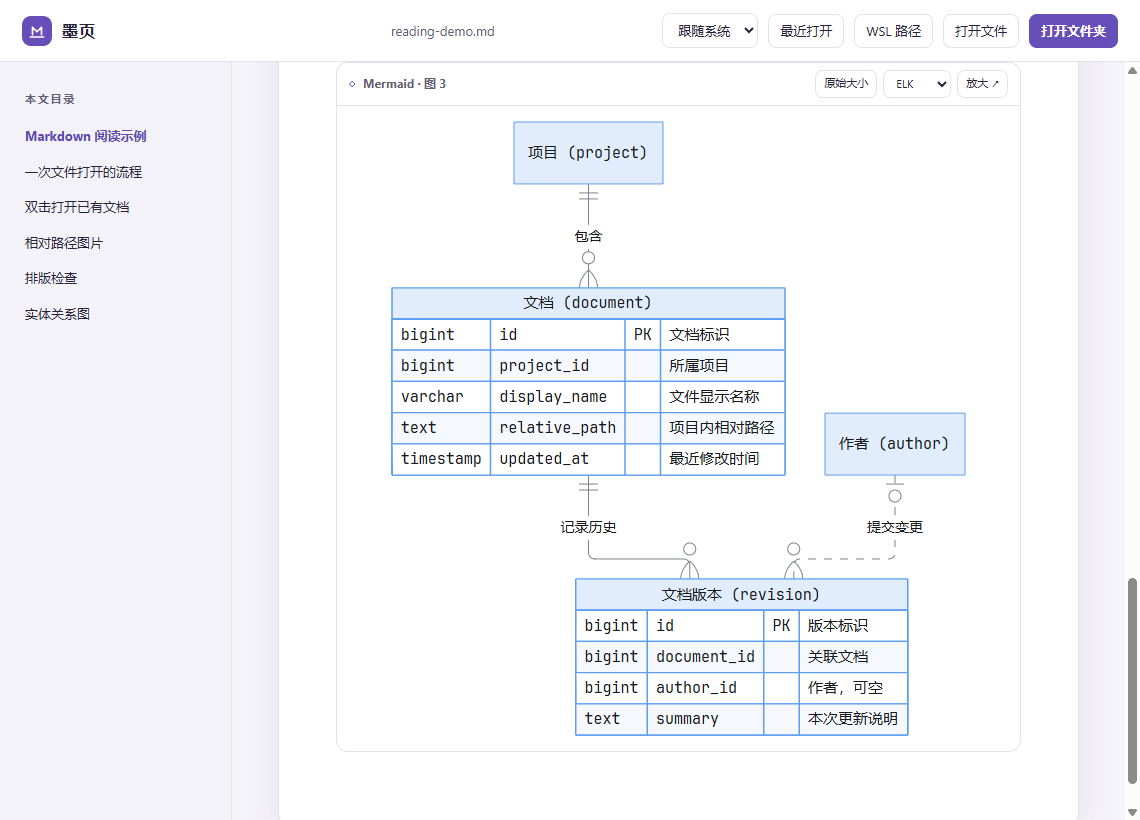
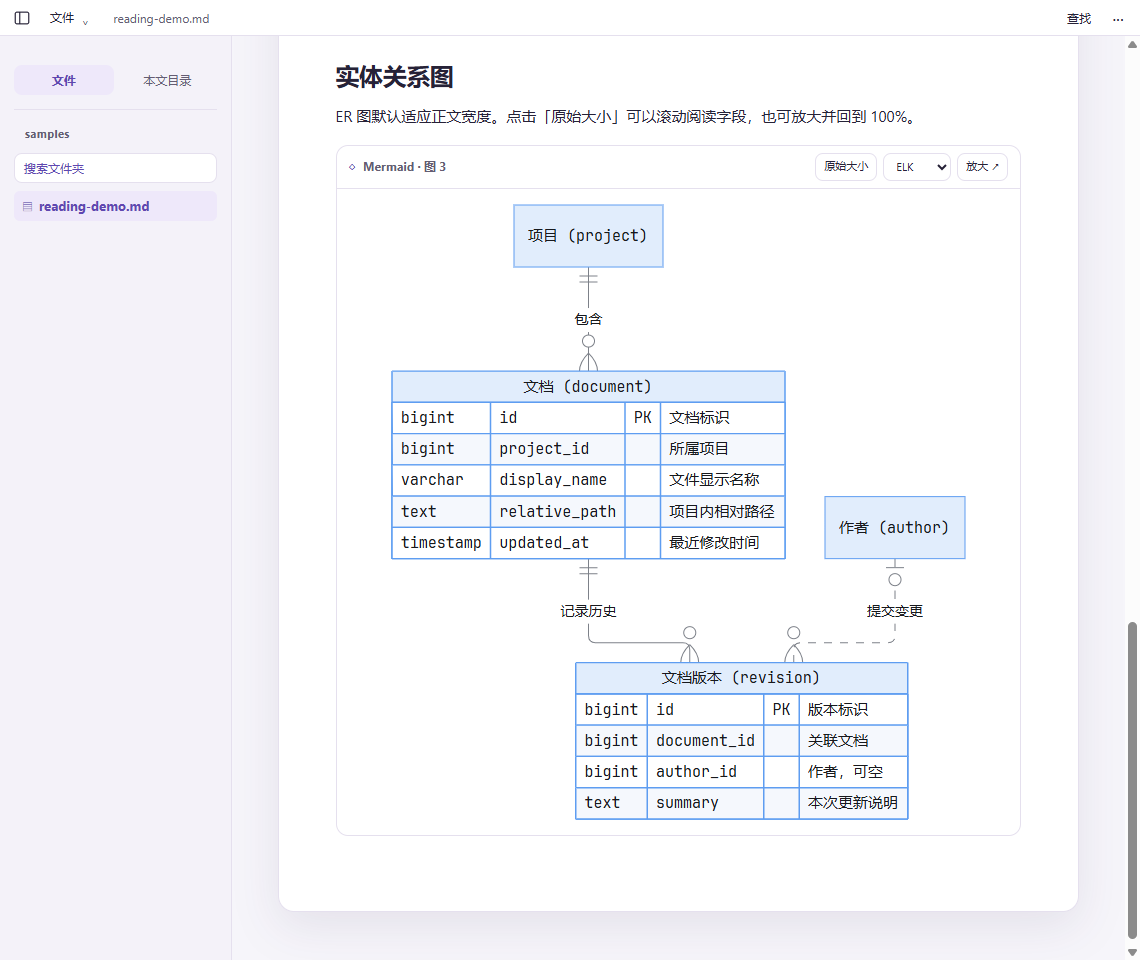
Replace the large toolbar with compact document navigation

diff --git a/src/main.js b/src/main.js
@@ -1,10 +1,11 @@
 import './style.css';
 import sampleText from '../samples/reading-demo.md?raw';
 import sampleImage from '../samples/reader-mark.svg?url';
-import { connectDesktop, desktop, launchExternal, openPath, openRelated, openTreeDocument, pickDocument, pickFolder, readImage } from './desktop.js';
+import { connectDesktop, desktop, launchExternal, openPath, openRelated, openTreeDocument, pickDocument, pickFolder, readImage, setWindowTitle } from './desktop.js';
 import { FileTree } from './file-tree.js';
 import { mountWslPicker } from './wsl-picker.js';
 import { diagramType, renderDiagram, svgUrl } from './diagrams.js';
+import { mountAppMenus } from './app-menus.js';
 import { RecentPaths } from './recents.js';
 import { localReference, renderMarkdown } from './markdown.js';
 import { closeDiagram, showDiagram } from './zoom.js';
@@ -29,6 +30,7 @@ let current = null;
 let panels = [];
 let folder = null;
 let sidebarMode = 'files';
+let sidebarCollapsed = false;
 let outlineCount = 0;
 const recents = new RecentPaths();
 const fileTree = new FileTree($('#file-tree'), (path, folderId) => {
@@ -38,6 +40,11 @@ const fileTree = new FileTree($('#file-tree'), (path, folderId) => {
 function report(message = '') {
   notice.textContent = message;
   notice.hidden = !message;
+}
+
+function updateTitle(title) {
+  document.title = title;
+  if (desktop) setWindowTitle(title).catch((error) => report(errorText(error)));
 }
 
 function themeValue() {
@@ -174,7 +181,14 @@ function mountDiagram(figure, source, index, version) {
 function updateSidebar() {
   const inFolder = Boolean(folder);
   const showFiles = inFolder && sidebarMode === 'files';
-  $('#sidebar').hidden = !inFolder && !outlineCount;
+  const available = inFolder || outlineCount > 0;
+  const visible = available && !sidebarCollapsed;
+  $('#sidebar').hidden = !visible;
+  const toggle = $('#toggle-sidebar');
+  toggle.disabled = !available;
+  toggle.setAttribute('aria-expanded', String(visible));
+  toggle.setAttribute('aria-label', visible ? '收起侧栏' : '展开侧栏');
+  toggle.title = (visible ? '收起侧栏' : '展开侧栏') + ' (Ctrl+B)';
   $('#sidebar-tabs').hidden = !inFolder;
   $('#tree-pane').hidden = !showFiles;
   $('#outline-pane').hidden = showFiles;
@@ -196,14 +210,15 @@ function showFolder(next) {
   $('#outline').replaceChildren();
   outlineCount = 0;
   folder = next;
+  sidebarCollapsed = false;
   sidebarMode = 'files';
   fileTree.setFolder(next);
   recents.add({ kind: 'folder', path: next.id, name: next.name });
   $('#folder-name').textContent = next.name;
   $('#folder-name').title = next.path;
-  $('#file-name').textContent = next.name;
-  $('#file-name').title = next.path;
-  document.title = next.name + ' · 墨页';
+  $('#file-name').textContent = '选择文档';
+  $('#file-name').removeAttribute('title');
+  updateTitle(next.name + ' · 墨页');
   $('#empty').hidden = false;
   $('#empty-title').textContent = '从左侧选择文档';
   $('#empty-description').textContent = '展开文件夹，点击 Markdown 文件即可阅读。';
@@ -234,9 +249,9 @@ function showDocument(doc, anchor) {
   article.replaceChildren(template.content);
   article.hidden = false;
   $('#empty').hidden = true;
-  $('#file-name').textContent = doc.name;
-  $('#file-name').title = doc.name;
-  document.title = `${doc.name} · 墨页`;
+  $('#file-name').textContent = doc.workspacePath || doc.name;
+  $('#file-name').title = doc.documentId || doc.name;
+  updateTitle(`${doc.name} · 墨页`);
   report('');
 
   const outline = $('#outline');
@@ -349,6 +364,7 @@ const showWorkspaceSearch = mountWorkspaceSearch($('#search-dialog'), () => fold
   if (scope !== folder) return false;
   if (!await load(() => openTreeDocument(match.path, scope.id), null, onError)) return false;
   sidebarMode = 'files';
+  sidebarCollapsed = false;
   updateSidebar();
   fileTree.reveal(match.path);
   if (match.line) readerFind.show(query, match.line);
@@ -374,6 +390,8 @@ article.addEventListener('click', (event) => {
 });
 
 $('#open-file').onclick = chooseFile;
+mountAppMenus(document.querySelector('.topbar'));
+$('#toggle-sidebar').onclick = () => { sidebarCollapsed = !sidebarCollapsed; updateSidebar(); };
 $('#empty-open').onclick = chooseFile;
 $('#open-folder').onclick = $('#empty-folder').onclick = () => load(pickFolder);
 $('#open-wsl').onclick = showWslDialog;
@@ -384,12 +402,16 @@ $('#show-outline').onclick = () => { sidebarMode = 'outline'; updateSidebar(); }
 $('#open-sample').onclick = () => load(() => ({ name: '阅读示例.md', text: sampleText, sample: true }));
 fileInput.onchange = () => { openBrowserFile(fileInput.files[0]); fileInput.value = ''; };
 document.addEventListener('keydown', (event) => {
+  if (event.defaultPrevented) return;
   const modifier = event.ctrlKey || event.metaKey;
   const key = event.key.toLowerCase();
   const modal = document.querySelector('dialog[open]');
   if (modifier && key === 'o') {
     event.preventDefault();
     chooseFile();
+  } else if (!modal && modifier && key === 'b' && !$('#toggle-sidebar').disabled) {
+    event.preventDefault();
+    $('#toggle-sidebar').click();
   } else if (!modal && modifier && key === 'f' && !event.shiftKey && current) {
     event.preventDefault();
     readerFind.show();

diff --git a/src/style.css b/src/style.css
@@ -51,16 +51,31 @@ button.primary:hover { filter: brightness(.94); background: var(--accent-fill); 
 kbd { font: 10px var(--mono); border: 1px solid currentColor; padding: 2px 3px; border-radius: 4px; opacity: .72; margin-left: 5px; }
 .sr-only { clip-path: inset(50%); width: 1px; height: 1px; overflow: hidden; position: absolute; white-space: nowrap; }
 .topbar {
-  height: 62px; min-height: 62px; padding: 0 22px; display: grid;
-  grid-template-columns: minmax(95px, 1fr) minmax(90px, 2fr) minmax(max-content, 1fr);
-  gap: 18px; align-items: center; background: var(--paper); border-bottom: 1px solid var(--line);
+  height: 36px; flex: 0 0 36px; padding: 0 8px; display: flex; gap: 6px;
+  align-items: center; background: var(--paper); border-bottom: 1px solid var(--line); font-size: 12px;
 }
-.brand, .toolbar { display: flex; align-items: center; gap: 10px; }
-.brand { font-weight: 750; letter-spacing: .06em; }
-.brand-mark { display: grid; place-items: center; width: 30px; height: 30px; background: var(--accent-fill); border-radius: 9px; color: var(--on-accent); }
-.brand-mark svg { width: 18px; fill: none; stroke: currentColor; stroke-width: 2.2; stroke-linejoin: round; stroke-linecap: round; }
-.current-file { text-align: center; color: var(--muted); overflow: hidden; text-overflow: ellipsis; white-space: nowrap; font-size: 13px; }
-.toolbar { justify-content: flex-end; white-space: nowrap; font-size: 13px; }
+.topbar button, .topbar summary { border: 0; border-radius: 5px; padding: 4px 8px; min-height: 26px; background: transparent; }
+.topbar :is(button, summary):hover, .app-menu[open] > summary { background: var(--tint); }
+.topbar .icon-button { width: 28px; padding: 4px; display: grid; place-items: center; }
+.icon-button svg { width: 18px; height: 18px; fill: none; stroke: currentColor; stroke-width: 1.3; }
+.current-file { flex: 1; min-width: 0; margin-left: 10px; color: var(--muted); overflow: hidden; text-overflow: ellipsis; white-space: nowrap; }
+.document-actions { display: flex; align-items: center; gap: 5px; }
+.app-menu { position: relative; flex-shrink: 0; }
+.app-menu summary { cursor: pointer; list-style: none; user-select: none; }
+.app-menu summary::-webkit-details-marker { display: none; }
+.app-menu summary span { margin-left: 5px; color: var(--muted); }
+.menu-panel {
+  position: absolute; z-index: 10; top: calc(100% + 4px); left: 0; width: 228px;
+  padding: 5px; border: 1px solid var(--line); border-radius: 8px;
+  background: var(--paper); box-shadow: var(--shadow);
+}
+.topbar .menu-panel button { width: 100%; padding: 7px 9px; display: flex; justify-content: space-between; align-items: center; text-align: left; }
+.menu-panel hr { border: 0; border-top: 1px solid var(--line); margin: 4px; }
+.menu-panel kbd { color: var(--muted); border: 0; padding: 0; }
+#view-menu .menu-panel { right: 0; left: auto; width: 180px; padding: 11px; }
+#view-menu summary { font-size: 18px; line-height: 1; }
+#view-menu label { display: block; margin-bottom: 7px; color: var(--muted); }
+#view-menu select { width: 100%; font-size: 12px; min-height: 30px; }
 .workspace { min-height: 0; flex: 1; display: flex; }
 .sidebar { flex: 0 0 215px; background: var(--chrome); border-right: 1px solid var(--line); overflow: auto; padding: 29px 14px; }
 .sidebar-label { color: var(--muted); font-weight: 700; font-size: 11px; letter-spacing: .16em; padding: 0 11px 12px; }
@@ -208,8 +223,6 @@ kbd { font: 10px var(--mono); border: 1px solid currentColor; padding: 2px 3px; 
 .dialog-actions { display: flex; justify-content: flex-end; gap: 8px; }
 @media (max-width: 770px) {
   .sidebar { flex-basis: 174px; }
-  .toolbar { gap: 5px; }
-  .toolbar button, .toolbar select { padding-inline: 6px; }
 }
 
 .er-diagram .figure-content { padding: 8px; }
@@ -230,11 +243,6 @@ kbd { font: 10px var(--mono); border: 1px solid currentColor; padding: 2px 3px; 
 .recent-row > :is(strong, span) { display: block; overflow: hidden; text-overflow: ellipsis; white-space: nowrap; }
 .recent-row span { font-size: 12px; color: var(--muted); margin-top: 2px; }
 #recents-error { color: var(--error); font-size: 13px; overflow-wrap: anywhere; }
-@media (max-width: 700px) {
-  .topbar { grid-template-columns: auto minmax(0, 1fr) auto; }
-  .brand > span:last-child { display: none; }
-}
-
 #open-folder-search {
   width: 100%; min-height: 30px; margin-bottom: 8px; padding: 5px 9px;
   text-align: left; font-size: 12px; color: var(--accent);

diff --git a/index.html b/index.html
@@ -8,17 +8,31 @@
 </head>
 <body>
   <header class="topbar">
-    <div class="brand"><span class="brand-mark" aria-hidden="true"><svg viewBox="0 0 24 24"><path d="M6 17V7l6 6 6-6v10M3 20h18"/></svg></span><span>墨页</span></div>
-    <div class="current-file" id="file-name">Markdown 阅读器</div>
-    <div class="toolbar">
-      <label class="theme-control"><span class="sr-only">外观</span><select id="theme"><option value="system">跟随系统</option><option value="light">浅色</option><option value="dark">深色</option></select></label>
+    <button id="toggle-sidebar" class="icon-button" aria-label="收起侧栏" aria-controls="sidebar" aria-expanded="false" title="收起侧栏 (Ctrl+B)" disabled>
+      <svg viewBox="0 0 20 20" aria-hidden="true"><rect x="2.5" y="3.5" width="15" height="13" rx="2"/><path d="M7.5 3.5v13"/></svg>
+    </button>
+    <details class="app-menu" id="file-menu">
+      <summary>文件 <span aria-hidden="true">⌄</span></summary>
+      <div class="menu-panel" role="group" aria-label="文件操作">
+        <button id="open-file">打开文件… <kbd>Ctrl+O</kbd></button>
+        <button id="open-folder" hidden>打开文件夹…</button>
+        <button id="open-wsl" hidden>打开 WSL 路径…</button>
+        <hr>
+        <button id="open-recents" hidden>最近打开…</button>
+      </div>
+    </details>
+    <div class="current-file" id="file-name">未打开文档</div>
+    <div class="document-actions">
       <button id="find-document" title="在当前文档中查找 (Ctrl+F)" hidden>查找</button>
-      <button id="open-recents" hidden>最近打开</button>
-      <button id="open-wsl" hidden>WSL 路径</button>
-      <button id="open-file">打开文件</button>
-      <button id="open-folder" class="primary" hidden>打开文件夹</button>
-      <input id="file-input" type="file" accept=".md,.markdown,.mdown" hidden>
+      <details class="app-menu" id="view-menu">
+        <summary class="icon-button" aria-label="更多" title="更多">···</summary>
+        <div class="menu-panel" role="group" aria-label="外观">
+          <label for="theme">外观</label>
+          <select id="theme"><option value="system">跟随系统</option><option value="light">浅色</option><option value="dark">深色</option></select>
+        </div>
+      </details>
     </div>
+    <input id="file-input" type="file" accept=".md,.markdown,.mdown" hidden>
   </header>
   <div class="workspace">
     <aside class="sidebar" id="sidebar" aria-label="文件与目录" hidden>

diff --git a/src/app-menus.js b/src/app-menus.js
@@ -1,0 +1,40 @@
+/** Keeps compact menus mutually exclusive and returns keyboard focus when dismissed. */
+export function mountAppMenus(header) {
+  const menus = [...header.querySelectorAll('details.app-menu')];
+  const close = (menu, restoreFocus = false) => {
+    menu.open = false;
+    if (restoreFocus) menu.querySelector('summary').focus();
+  };
+  for (const menu of menus) {
+    menu.querySelector('summary').addEventListener('click', () => {
+      for (const other of menus) if (other !== menu) close(other);
+    });
+    // Dialog return focus must not point at an action hidden inside the closed menu.
+    menu.addEventListener('click', (event) => {
+      if (!event.target.closest('button')) return;
+      close(menu, true);
+      queueMicrotask(() => {
+        document.querySelector('dialog[open]')?.addEventListener('close', () => {
+          menu.querySelector('summary').focus();
+        }, { once: true });
+      });
+    }, { capture: true });
+  }
+  document.addEventListener('click', (event) => {
+    for (const menu of menus) if (menu.open && !menu.contains(event.target)) close(menu);
+  });
+  document.addEventListener('keydown', (event) => {
+    if (event.key === 'Tab') {
+      requestAnimationFrame(() => {
+        for (const menu of menus) if (menu.open && !menu.contains(document.activeElement)) close(menu);
+      });
+      return;
+    }
+    if (event.key !== 'Escape') return;
+    const menu = menus.find((item) => item.open);
+    if (menu) {
+      event.preventDefault();
+      close(menu, true);
+    }
+  });
+}

diff --git a/src/desktop.js b/src/desktop.js
@@ -1,11 +1,16 @@
 import { invoke, isTauri } from '@tauri-apps/api/core';
 import { listen } from '@tauri-apps/api/event';
 import { getCurrentWebview } from '@tauri-apps/api/webview';
+import { getCurrentWindow } from '@tauri-apps/api/window';
 import { open } from '@tauri-apps/plugin-dialog';
 import { openUrl } from '@tauri-apps/plugin-opener';
 
 export const desktop = isTauri();
 const markdownExtensions = ['md', 'markdown', 'mdown'];
+
+export function setWindowTitle(title) {
+  return getCurrentWindow().setTitle(title);
+}
 
 export async function pickDocument() {
   const path = await open({

diff --git a/docs/topbar-research.md b/docs/topbar-research.md
@@ -1,0 +1,28 @@
+# 墨页顶部界面调研
+
+调研日期：2026-11-10。依据官方文档与官方界面说明；没有据截图推断工具栏像素尺寸，也没有实装对比所有平台。
+
+## 结论
+
+墨页面向主要阅读 Markdown 的用户。当前系统标题栏下又常驻一整行品牌、文件夹名、主题和多个打开入口，重复信息多，阅读状态下使用频率低。建议取消这条独立品牌工具条，把常驻空间交给当前文档位置、文件导航和搜索。此处是针对墨页的设计判断，不是各工具统一遵循的强制规范。
+
+## 主流工具的做法
+
+| 工具 | 官方资料可确认的做法 | 对墨页的参考价值 |
+| --- | --- | --- |
+| Typora | 打开文件/文件夹通过 File → Open；文件侧栏底部菜单可切换文件夹，Recent Locations 管理最近位置；Quick Open 用于文件定位。侧栏可切文件树、列表和目录。侧栏开关在 macOS 标题栏、Windows/Linux 状态栏，位置存在平台差异。[Quick Start](https://support.typora.io/Quick-Start/)、[File Management](https://support.typora.io/File-Management/) | 打开、切换文件夹等入口可以进入文件菜单或侧栏菜单；没有必要将每个入口常驻为大按钮。 |
+| Obsidian | 桌面以可收起的侧栏、文档标签页、左侧竖向 Ribbon 和文档右上更多菜单组织功能。Quick switcher 可搜索文档，空查询显示最近文档。主题和系统/明暗外观位于 Settings → Appearance；设置可由侧栏或命令面板进入。[Workspace](https://obsidian.md/help/workspace)、[Quick switcher](https://obsidian.md/help/Plugins/Quick+switcher)、[Settings](https://obsidian.md/help/settings) | 常驻入口分为全局操作和当前文档操作，低频设置进入菜单。不能简单概括为“Obsidian 没有工具栏”；它有 Ribbon 和可配置标题栏。 |
+| VS Code | 文件树在 Explorer；文档以编辑区标题上的标签页表示；Ctrl+P 定位文件、Ctrl+Shift+P 进入命令。主题从 Preferences/命令选择器进入。Windows/Linux 菜单栏可折叠或隐藏。[User Interface](https://code.visualstudio.com/docs/editing/getting-started/userinterface)、[Themes](https://code.visualstudio.com/docs/configure/themes) | 把文件和正文操作分别放在对应区域，避免将入口平铺。其 Command Center 是在自定义标题栏里整合搜索的设计，不能据此认为墨页需要再加一条搜索栏；官方历史说明见 [1.82](https://code.visualstudio.com/updates/v1_82#_command-center-now-on-by-default)。 |
+| Zed | Project Panel 放文件树；Ctrl+P 按文件名/路径查找，Ctrl+Shift+P 进入命令；File → Open 和 File → Open Recent 管理项目。主题由 Theme Selector 和设置管理；标题栏可按设置显示项目、分支、用户菜单等元素。[Finding & Navigating](https://zed.dev/docs/finding-navigating)、[Windows & Projects](https://zed.dev/docs/windows-and-projects)、[Appearance](https://zed.dev/docs/appearance)、[Title Bar settings](https://zed.dev/docs/reference/all-settings#title-bar) | 顶部保留有用的上下文或集中入口，设置与打开操作不必平铺。Zed 功能和项目模型比只读阅读器复杂，不建议照搬整套布局。 |
+
+Typora 的菜单主题入口也由官方 [About Themes](https://support.typora.io/About-Themes/) 明确说明。以上文档列出的是可靠的操作入口，不能凭文档未列出某按钮，就断言所有版本和平台都不存在该按钮。
+
+## 墨页建议
+
+1. 删除第二层整条品牌工具条，应用名保留在窗口标题；当前文件夹名保留在文件树顶部，避免三处重复。
+2. 全局保留一个可见的“文件”菜单：打开文件、打开文件夹、WSL 路径、最近打开。主题收进“外观”子菜单，仍默认跟随系统。鼠标用户能找到入口，快捷键作为补充。
+3. 阅读区顶部如需常驻一行，只显示当前文档的短路径/文件名，以及收起侧栏、查找和更多操作。没有打开文档时不制造空标题行；未打开文件夹的首页继续放明确的打开入口。
+4. 文件树标题旁放搜索或切换文件夹入口；当前正文使用 Ctrl+F，文件定位使用 Ctrl+P，全文搜索使用 Ctrl+Shift+F。不要为了模仿编辑器新增多标签、Git 或 AI 工具栏。
+5. Windows 可分两步实现：先移除重复工具条并整理菜单；若以后要把菜单与窗口按钮合成一层，再单独验收窗口拖动、最大化、双击、系统菜单、缩放和键盘操作。仅删除当前品牌栏并不必然要求重写原生窗口标题栏。
+
+推荐的阅读状态：`[侧栏开关] 文件菜单 | 当前文档短路径 | [查找] [更多]`。这是功能分区草案，不是已实现效果，也不规定最终控件尺寸。

diff --git a/README.md b/README.md
@@ -1,6 +1,6 @@
 # 墨页 Moye · Windows Markdown Reader
 
-Windows 本地 Markdown 阅读器。打开或拖入 Markdown 文件或文件夹，阅读带目录、表格、相对图片和 Mermaid 图的文档。点击内嵌图可在独立画布中缩放、拖动和适应窗口。可按图切换 Dagre/ELK。ER 图默认适应正文宽度，可切到原始大小或放大查看。主题和最近打开的文件/文件夹路径仅保存在本机，文档始终以只读方式打开。
+Windows 本地 Markdown 阅读器。打开或拖入 Markdown 文件或文件夹，阅读带目录、表格、相对图片和 Mermaid 图的文档。图表默认采用蓝色节点和细灰连线，流程图与 ER 图默认使用 ELK；可切到原始大小，或在大图中缩放、拖动和适应窗口。主题和最近打开的文件/文件夹路径仅保存在本机，文档始终以只读方式打开。
 
 **[下载 Windows x64 版](https://github.com/eval1007/moye-markdown/releases/latest)** · [反馈问题或建议](https://github.com/eval1007/moye-markdown/issues)
 
@@ -13,7 +13,8 @@ Moye is a local Markdown reader for Windows with WSL folder browsing, Mermaid an
 - Windows 10/11 x64，使用 WebView2 Runtime。
 - 安装时可选择「只为我自己安装」（默认目录 `%LOCALAPPDATA%\Programs\Moye`）或「为本机所有用户安装」（默认目录 `%ProgramFiles%\Moye`，需要管理员权限）。两种模式都能修改目录。升级时默认沿用已安装的范围和目录；想切换范围，建议先卸载旧版并保留应用数据。
 - 安装后可在文件管理器用「打开方式 → Moye」打开 Markdown。系统默认关联由用户选择。
-- 窗口内可用「打开文件」、Ctrl+O 或拖放。支持 UTF-8 的 `.md`、`.markdown`、`.mdown`。
+- 左上角「文件」菜单提供打开文件、打开文件夹、WSL 路径和最近打开；也可用 Ctrl+O 或拖放。支持 UTF-8 的 `.md`、`.markdown`、`.mdown`。右上角「更多」菜单设置外观。
+- 顶部显示当前文档的相对路径，完整路径可悬停查看。点击侧栏图标或按 Ctrl+B 可以收起 / 展开文件树和目录。
 - 「打开文件夹」显示左侧文件树，点击 Markdown 文件后在右侧阅读。点「WSL 路径」可选择发行版并输入 Linux 绝对路径，也可粘贴 WSL 的 Windows 网络路径。输入时列出匹配的文件夹和 Markdown 文件；可点击或用方向键配合 Enter / Tab 补全，再点「打开」。
 - 相对图片和 Markdown 链接以当前文档所在目录解析，允许读取已打开的根目录内的文件；没有打开根目录时限于当前文档目录。外部链接交给默认浏览器。预览不加载远程图片。
 - 阅读时用 Ctrl+F 查找当前正文，Enter / Shift+Enter 跳到下一处 / 上一处。打开文件夹后用 Ctrl+P 搜文件名或相对路径、Ctrl+Shift+F 搜 Markdown 正文，也可从文件树点击「搜索文件夹」。打开结果会展开文件树中的对应路径；正文命中会跳到相应内容块并高亮可见文字。文件夹搜索在本地执行，最多显示前 100 条结果，跳过隐藏目录和 node_modules。
@@ -28,7 +29,7 @@ npm run tauri dev
 npm run tauri build
 ```
 
-`npm run dev` 也可单独检查阅读界面；浏览器模式不能读取用户所选 Markdown 的同目录图片，也没有 Windows 文件关联。用内置示例可验证图表和图片。Windows 安装包由 Tauri 生成，包含渲染依赖，无需在线图表服务。ER 图使用随应用打包的 [JetBrains Mono v2.304](https://github.com/JetBrains/JetBrainsMono/releases/tag/v2.304)（[SIL OFL 1.1](public/licenses/JetBrainsMono-OFL.txt)），中文使用系统字体。
+`npm run dev` 也可单独检查阅读界面；浏览器模式不能读取用户所选 Markdown 的同目录图片，也没有 Windows 文件关联。用内置示例可验证图表和图片。Windows 安装包由 Tauri 生成，包含渲染依赖，无需在线图表服务。Mermaid 图使用随应用打包的 [JetBrains Mono v2.304](https://github.com/JetBrains/JetBrainsMono/releases/tag/v2.304)（[SIL OFL 1.1](public/licenses/JetBrainsMono-OFL.txt)），中文使用系统字体。图的显式样式、方向和分组仍由源文件定义。
 
 源文件按职责分布在 `src/markdown.js`（解析）、`src/diagrams.js`（图表主题和 SVG）、`src/zoom.js`（大图）、`src/main.js`（阅读界面）和 `src-tauri/src/main.rs`（本地文件与启动请求）。
 

diff --git a/REQUIREMENTS.md b/REQUIREMENTS.md
@@ -4,13 +4,15 @@
 
 ## 使用路径
 
+顶部使用 36px 的紧凑文档导航：侧栏开关、文件菜单、当前文档短路径、查找和更多。文件菜单管理打开文件、文件夹、WSL 与历史；更多菜单设置外观。侧栏可用 Ctrl+B 收起与展开。
+
 用户点「打开文件夹」或将文件夹拖入窗口。左侧显示该根目录的文件树：文件夹可逐级展开，只列出可阅读的 Markdown 文件；点击文件，在右侧显示正文。切换文件后文件树保持展开，当前文件高亮；左侧可切换到本文目录。首次进入文件夹时右侧提示选择文档；找不到 Markdown 文件的分支显示空态。再次打开另一根目录时重置文件树和当前文档。
 
 Windows 文件夹走系统选择器。WSL 支持 Windows 的 `\\wsl.localhost\<发行版>\…` / `\\wsl$\<发行版>\…` 路径，也可点「WSL 路径」，选择已安装的发行版并输入 `/home/…` 绝对路径。输入时按当前一层目录提示匹配的文件夹和 Markdown 文件，补全文件夹后可继续浏览下一层。路径指向目录就打开文件树，指向 Markdown 就直接阅读。WSL 文件留在原处，无需复制到 Windows。
 
 仍可从资源管理器用已注册的「打开方式」打开单个 `.md`，或在应用内「打开文件」/ Ctrl+O。打开当前文件夹内的文档时保留文件树，打开根目录外的单文件时回到单文件视图。安装时可选当前用户或所有用户；安装目录和「打开方式」随所选范围设置，不更改系统的默认应用。
 
-文档中的 Mermaid 块原位显示。点击「放大」在阅读器内打开大图；可用按钮或滚轮缩放、拖动平移，点击「适应窗口」回到全图，按 Esc 关闭并回到原阅读位置。长中文标签、子图和密集连线用一组实际样式的样例做对照；提供默认布局和 ELK 的切换，源文件保持原样。ER 图以 Codex 截图为视觉参考：浅蓝实体表头、交替行底色、细灰关系线、中英文可读；默认 ELK 布局，正文内默认适应宽度，可切到原始大小滚动查看，大图可一键回到 100%。表名、字段和关系标签优先使用内置的 JetBrains Mono，中文使用系统字体。失败时仅该图显示错误和可展开的源码，正文继续可读。
+文档中的 Mermaid 块原位显示。点击「放大」在阅读器内打开大图；可用按钮或滚轮缩放、拖动平移，点击「适应窗口」回到全图，按 Esc 关闭并回到原阅读位置。长中文标签、子图和密集连线用一组实际样式的样例做对照；流程图默认使用 ELK 和直角折线，支持切换 Dagre；默认使用与 ER 图一致的蓝色节点、细灰连线和 JetBrains Mono。所有图都可切到原始大小滚动查看，源文件保持原样。ER 图以 Codex 截图为视觉参考：浅蓝实体表头、交替行底色、细灰关系线、中英文可读；默认 ELK 布局，正文内默认适应宽度，可切到原始大小滚动查看，大图可一键回到 100%。表名、字段和关系标签优先使用内置的 JetBrains Mono，中文使用系统字体。失败时仅该图显示错误和可展开的源码，正文继续可读。
 
 普通 Markdown 支持标题、链接、列表、表格、引用和代码块。文档图片及相对 Markdown 链接从当前文件的目录解析。已打开根目录时，可读根目录内的同级或上层资源；单文件模式限当前文件所在目录。无法加载时保留说明。应用内切换浅色、深色或跟随系统。主题偏好保存在本地。「最近打开」列出最新 20 项文件或文件夹，按最近打开时间排序并去重，可一键重开或清空。仅保存本机路径，不保存或上传文档内容。不做编辑、批注、云同步、在线发布或批量出图。
 

diff --git a/CHANGELOG.md b/CHANGELOG.md
@@ -4,6 +4,7 @@
 
 首个公开版本，面向 Windows x64。
 
+- 顶部改为紧凑文档导航；打开、WSL 和历史归入文件菜单，外观归入更多菜单，支持 Ctrl+B 收起侧栏。
 - Mermaid 统一蓝色节点与细灰连线，流程图默认 ELK 直角折线；所有图提供原始大小入口并内置 JetBrains Mono。
 - Windows 安装器可以选择仅为当前用户安装，或为所有用户安装到 Program Files；重装沿用原范围和目录。
 
